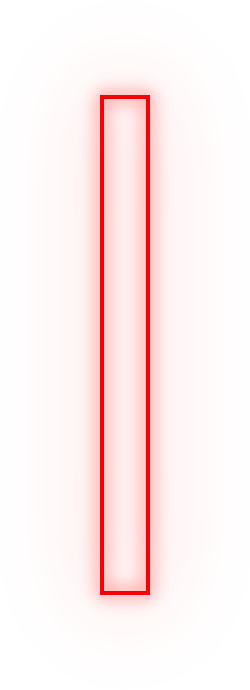
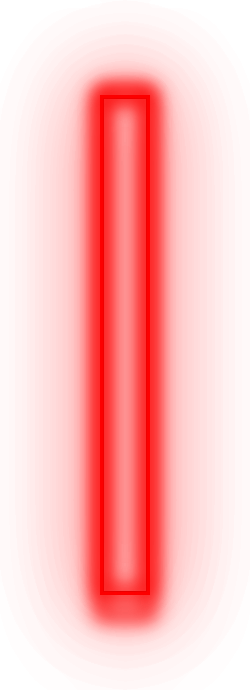
Image Background Bar

diff --git a/RxBot/CustomCommands.py b/RxBot/CustomCommands.py
@@ -39,6 +39,25 @@ def changeScene(sceneName):
 
     ws.disconnect()
 
+def playMedia(mediaName):
+    print("Playing Media...")
+    host = "localhost"
+    port = 4444
+    password = settings["OBS WS PASSWORD"]
+
+    ws = obsws(host, port, password)
+    ws.connect()
+
+    scenes = ws.call(requests.GetSceneList())
+    names = []
+    for s in scenes.getScenes():
+        name = s['name']
+        names.append(name)
+
+    ws.call(requests.RestartMedia(mediaName))
+
+    ws.disconnect()
+
 
 class bar:
 
@@ -47,20 +66,29 @@ class bar:
         self.target = 0 # Out of 500, how full the bar should be
         self.imgname = "bar.gif"
 
+        self.barimage = Image.open("Resources/barimage.png")
+        left = 0
+        top = 0
+        right = 50
+        bottom = 500
+        self.croppedBarimage = self.barimage.crop((left, top, right, bottom))
+        del self.barimage
+
     def drawBar(self, progress):
         self.progress = progress
         realProgress = 500 - round(self.progress)
         w, h = 50, 500
-        shape = [(0, 500), (w, realProgress)]
+        shape = [(0, 0), (w, realProgress)]
         outlineShape = [(0, 0), (w - 1, h - 1)]
 
         # creating new Image object
-        img = Image.new("RGBA", (w, h), (0, 255, 0, 0))
+        img = Image.new("RGBA", (w, h), (0, 0, 0, 0))
 
+        img.paste(self.croppedBarimage)
         # create rectangle image
         draw = ImageDraw.Draw(img)
 
-        draw.rectangle(shape, fill="red")
+        draw.rectangle(shape, fill=(0, 255, 0))
         draw.rectangle(outlineShape, width=4, outline="black")
         return img
 
@@ -146,8 +174,8 @@ class CustomCommands():
             return
         if (user.lower() != settings["TRIGGER USER"].lower()) and (user != settings["CHANNEL"]):
             return
-        changeScene(settings["INSTRUCTION SCENE"])
-        time.sleep(settings["INSTRUCTION DURATION"])
+        #changeScene(settings["INSTRUCTION SCENE"])
+        #time.sleep(settings["INSTRUCTION DURATION"])
         self.actuallyStartRipandtear()
 
     def actuallyStartRipandtear(self):
@@ -192,7 +220,8 @@ class CustomCommands():
 
     def lose(self):
         chatConnection.sendMessage("Rip and tear failed...")
-        changeScene(settings["FAIL SCENE"])
+        #changeScene(settings["FAIL SCENE"])
+        playMedia("failedrip")
         self.isActive = False
         self.startTime = None
         self.endTime = None
